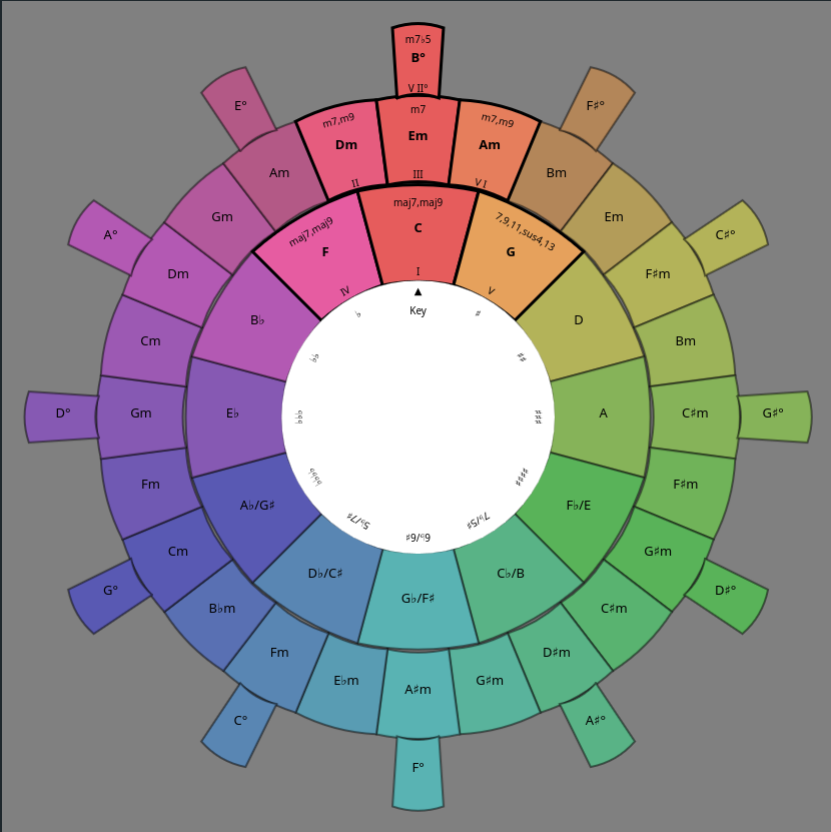
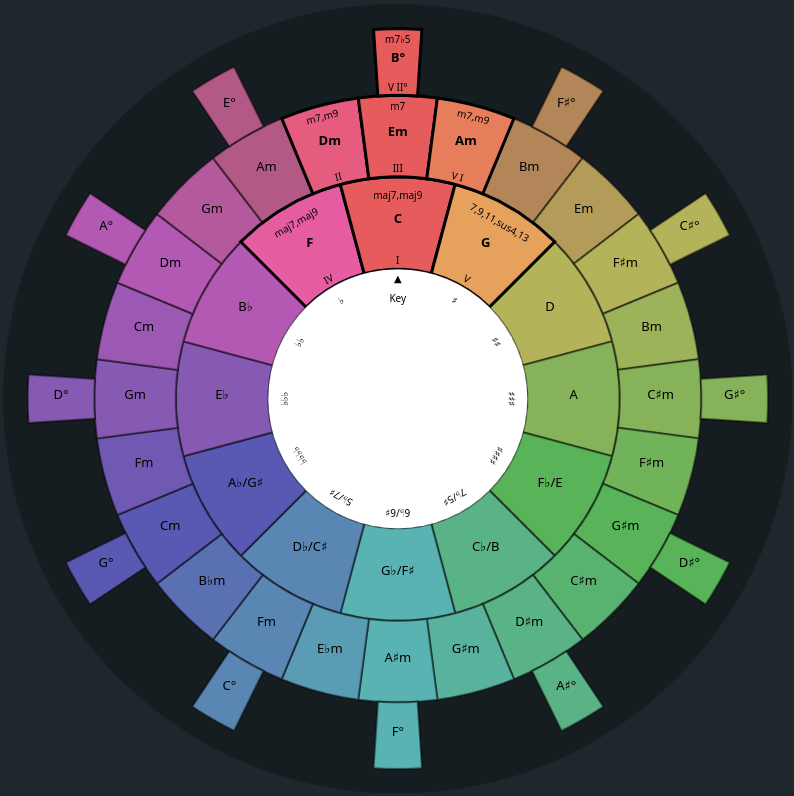
ChordWheel - Rework page

diff --git a/front/src/routes/(apps)/chordwheel/components/InfoModal.svelte b/front/src/routes/(apps)/chordwheel/components/InfoModal.svelte
@@ -1,96 +1,48 @@
-<script lang="ts">
-    import type { ModalProps } from 'svelte-modals';
-
-    const { isOpen, close }: ModalProps<undefined> = $props();
-</script>
-
-{#if isOpen}
-    <div role="dialog" class="modal">
-        <div class="contents">
-            <h4 class="title-bar">
-                Chord Wheel
-                <button onclick={close}>Close</button>
-            </h4>
-
-            <div>
-                This page is an implementation of <a
-                    href="https://chordwheel.com/"
-                    target="_blank"
-                    rel="noopener noreferrer">Jim Fleser's Chord Wheel</a
-                >
-                it is intended for my personal use. If you are using this implementation you should definitely
-                <a
-                    href="https://chordwheel.com/index.php?option=com_content&view=article&id=16&Itemid=4"
-                    target="_blank"
-                    rel="noopener noreferrer">buy his book</a
-                >
-                or
-                <a
-                    href="https://apps.apple.com/us/app/the-chord-wheel/id444931977"
-                    target="_blank"
-                    rel="noopener noreferrer">buy his app</a
-                > (which is much more complete than this page).
-            </div>
-
-            <div>
-                This tool only works for songs in major keys.
-                <ul>
-                    <li>
-                        <a
-                            href="https://chordwheel.com/index.php?option=com_content&view=article&id=5&Itemid=17"
-                            target="_blank"
-                            rel="noopener noreferrer">Analyzing songs and compositional styles</a
-                        >
-                    </li>
-                    <li>
-                        <a
-                            href="https://chordwheel.com/index.php?option=com_content&view=article&id=8:soloing-and-improvisation&catid=8:using-the-chordwheel&Itemid=8"
-                            target="_blank"
-                            rel="noopener noreferrer">Soloing and improvisation</a
-                        >
-                    </li>
-                    <li>
-                        <a
-                            href="https://chordwheel.com/index.php?option=com_content&view=article&id=9&Itemid=5"
-                            target="_blank"
-                            rel="noopener noreferrer">Transpositions</a
-                        >
-                    </li>
-                </ul>
-            </div>
-        </div>
+<div class="contents">
+    <div>
+        This page is an implementation of <a
+            href="https://chordwheel.com/"
+            target="_blank"
+            rel="noopener noreferrer">Jim Fleser's Chord Wheel</a
+        >
+        it is intended for my personal use. If you are using this implementation you should consider
+        <a
+            href="https://chordwheel.com/index.php?option=com_content&view=article&id=16&Itemid=4"
+            target="_blank"
+            rel="noopener noreferrer">buying his book</a
+        >
+        or
+        <a
+            href="https://apps.apple.com/us/app/the-chord-wheel/id444931977"
+            target="_blank"
+            rel="noopener noreferrer">his app</a
+        > (which is much more complete than this page).
     </div>
-{/if}
 
-<style>
-    .modal {
-        position: fixed;
-        top: 0;
-        bottom: 0;
-        right: 0;
-        left: 0;
-        margin: 3em;
-        z-index: 9999;
-
-        /* allow click-through to backdrop */
-        pointer-events: none;
-    }
-
-    .contents {
-        min-width: 240px;
-        border-radius: 26px;
-        padding: 16px;
-        background: var(--nc-bg-1);
-        pointer-events: auto;
-
-        max-height: 90%;
-        overflow: auto;
-    }
-
-    .title-bar {
-        margin-bottom: 1em;
-        display: flex;
-        flex-direction: row;
-        justify-content: space-between;
-    }
-</style>
+    <div>
+        This tool only works for songs in major keys.
+        <ul>
+            <li>
+                <a
+                    href="https://chordwheel.com/index.php?option=com_content&view=article&id=5&Itemid=17"
+                    target="_blank"
+                    rel="noopener noreferrer">Analyzing songs and compositional styles</a
+                >
+            </li>
+            <li>
+                <a
+                    href="https://chordwheel.com/index.php?option=com_content&view=article&id=8:soloing-and-improvisation&catid=8:using-the-chordwheel&Itemid=8"
+                    target="_blank"
+                    rel="noopener noreferrer">Soloing and improvisation</a
+                >
+            </li>
+            <li>
+                <a
+                    href="https://chordwheel.com/index.php?option=com_content&view=article&id=9&Itemid=5"
+                    target="_blank"
+                    rel="noopener noreferrer">Transpositions</a
+                >
+            </li>
+        </ul>
+    </div>
+</div>

diff --git a/front/src/routes/(apps)/chordwheel/+page.svelte b/front/src/routes/(apps)/chordwheel/+page.svelte
@@ -2,7 +2,6 @@
     import type p5 from 'p5';
     import P5, { type Sketch } from 'p5-svelte';
     import { onDestroy } from 'svelte';
-    import { modals } from 'svelte-modals';
     import InfoModal from './components/InfoModal.svelte';
     import { wheel } from '$lib/ChordWheel/wheel-config';
     import type { WheelTiles } from '$lib/ChordWheel/types';
@@ -24,14 +23,31 @@
     let _p5: p5;
     let wheelTiles: WheelTiles;
     let shapePosition = $state(0);
+    let rotationProgress = $state(0);
+    let rotationInterval: ReturnType<typeof setInterval> | undefined = $state();
 
+    const triggerRotation = (clockwise: boolean) => {
+        if (rotationInterval) {
+            return;
+        }
+
+        rotationInterval = setInterval(() => {
+            if (rotationProgress >= 1 || rotationProgress <= -1) {
+                rotateWheel(wheel, clockwise);
+                rotationProgress = 0;
+                clearInterval(rotationInterval);
+                rotationInterval = undefined;
+                return;
+            }
+
+            rotationProgress += clockwise ? 0.05 : -0.05;
+        }, 1);
+    };
     const rotateWheelClockwise = () => {
-        rotateWheel(wheel, true);
-        wheelTiles = makeWheelTiles(_p5, wheel);
+        triggerRotation(true);
     };
     const rotateWheelCounterClockwise = () => {
-        rotateWheel(wheel, false);
-        wheelTiles = makeWheelTiles(_p5, wheel);
+        triggerRotation(false);
     };
 
     const sketch: Sketch = (p5) => {
@@ -40,7 +56,7 @@
 
             p5.resizeCanvas(minDimension * 0.8, minDimension * 0.8);
             wheel.scale = (minDimension / 2) * 0.75;
-            wheelTiles = makeWheelTiles(p5, wheel);
+            wheelTiles = makeWheelTiles(p5, wheel, 0);
         }
 
         p5.setup = () => {
@@ -50,6 +66,8 @@
             p5.colorMode(p5.HSB);
         };
         p5.draw = () => {
+            wheelTiles = makeWheelTiles(_p5, wheel, rotationProgress);
+
             p5.translate(p5.width / 2, p5.height / 2);
             const bodyStyle = getComputedStyle(document.body);
             const backgroundColor = bodyStyle.getPropertyValue('--nc-bg-1');
@@ -71,27 +89,22 @@
         };
 
         p5.keyPressed = (e: KeyboardEvent) => {
-            const validEvents: string[] = [
-                p5.LEFT_ARROW,
-                p5.RIGHT_ARROW,
-                p5.UP_ARROW,
-                p5.DOWN_ARROW
-            ];
-            if (!validEvents.includes(p5.key) || e.altKey) {
+            const validEvents: string[] = ['ArrowLeft', 'ArrowRight', 'ArrowUp', 'ArrowDown'];
+            if (!validEvents.includes(p5.key)) {
                 return;
             }
             e.preventDefault();
 
-            if (p5.key === p5.LEFT_ARROW) {
+            if (p5.key === 'ArrowLeft') {
                 shapePosition--;
             }
-            if (p5.key === p5.RIGHT_ARROW) {
+            if (p5.key === 'ArrowRight') {
                 shapePosition++;
             }
-            if (p5.key === p5.UP_ARROW) {
+            if (p5.key === 'ArrowUp') {
                 rotateWheelCounterClockwise();
             }
-            if (p5.key === p5.DOWN_ARROW) {
+            if (p5.key === 'ArrowDown') {
                 rotateWheelClockwise();
             }
         };
@@ -157,15 +170,6 @@
     });
 </script>
 
-<h2>
-    Chord wheel
-    <span>
-        <button aria-label="info" style:position="relative" onclick={() => modals.open(InfoModal)}>
-            <i class="fa fa-info-circle" aria-hidden="true"></i>
-        </button>
-    </span>
-</h2>
-
 <div class="d-flex justify-content-center">
     <P5 {sketch} />
 </div>
@@ -198,8 +202,10 @@
         ></button>
     </p>
     <p>
-        On mobile you can also swipe left/right to rotate the shape and up/down to rotate the wheel
+        On mobile swipe left/right to rotate the shape and up/down to rotate the wheel. On the
+        browser you can drag the mouse left/right and up/down.
     </p>
+    <InfoModal />
 </div>
 
 <style>

diff --git a/front/src/lib/ChordWheel/wheel-service.ts b/front/src/lib/ChordWheel/wheel-service.ts
@@ -101,7 +101,8 @@ const makeTile = (
     ring: Ring,
     labelIndex: number,
     wheelPosition: number,
-    scale: number
+    scale: number,
+    transitionProgress: number
 ): Tile => {
     if (labelIndex < 0 || labelIndex >= ring.labels.length) {
         throw new Error(`OOB labelIndex: ${labelIndex}`);
@@ -112,7 +113,8 @@ const makeTile = (
     position.x = 0;
     position.y = -outerDiameter / 2;
 
-    const cellAngle = labelIndex * cellSize * ratio;
+    const cellAngle =
+        labelIndex * cellSize * ratio + p5.map(transitionProgress, 0, 1, 0, Math.PI / 6);
     position.rotate(cellAngle);
 
     const offsetAngle = cellSize / 2;
@@ -141,16 +143,16 @@ const makeTile = (
     };
 };
 
-export const makeWheelTiles = (p5: p5, wheel: Wheel): WheelTiles => {
+export const makeWheelTiles = (p5: p5, wheel: Wheel, transitionProgress: number): WheelTiles => {
     const { scale } = wheel;
     const tilesInnerRing = wheel.innerRing.labels.map((_, i) =>
-        makeTile(p5, wheel.innerRing, i, wheel.position, scale)
+        makeTile(p5, wheel.innerRing, i, wheel.position, scale, transitionProgress)
     );
     const tilesMiddleRing = wheel.middleRing.labels.map((_, i) =>
-        makeTile(p5, wheel.middleRing, i, wheel.position * 2, scale)
+        makeTile(p5, wheel.middleRing, i, wheel.position * 2, scale, transitionProgress)
     );
     const tilesOuterRing = wheel.outerRing.labels.map((_, i) =>
-        makeTile(p5, wheel.outerRing, i, wheel.position, scale)
+        makeTile(p5, wheel.outerRing, i, wheel.position, scale, transitionProgress)
     );
 
     return {
